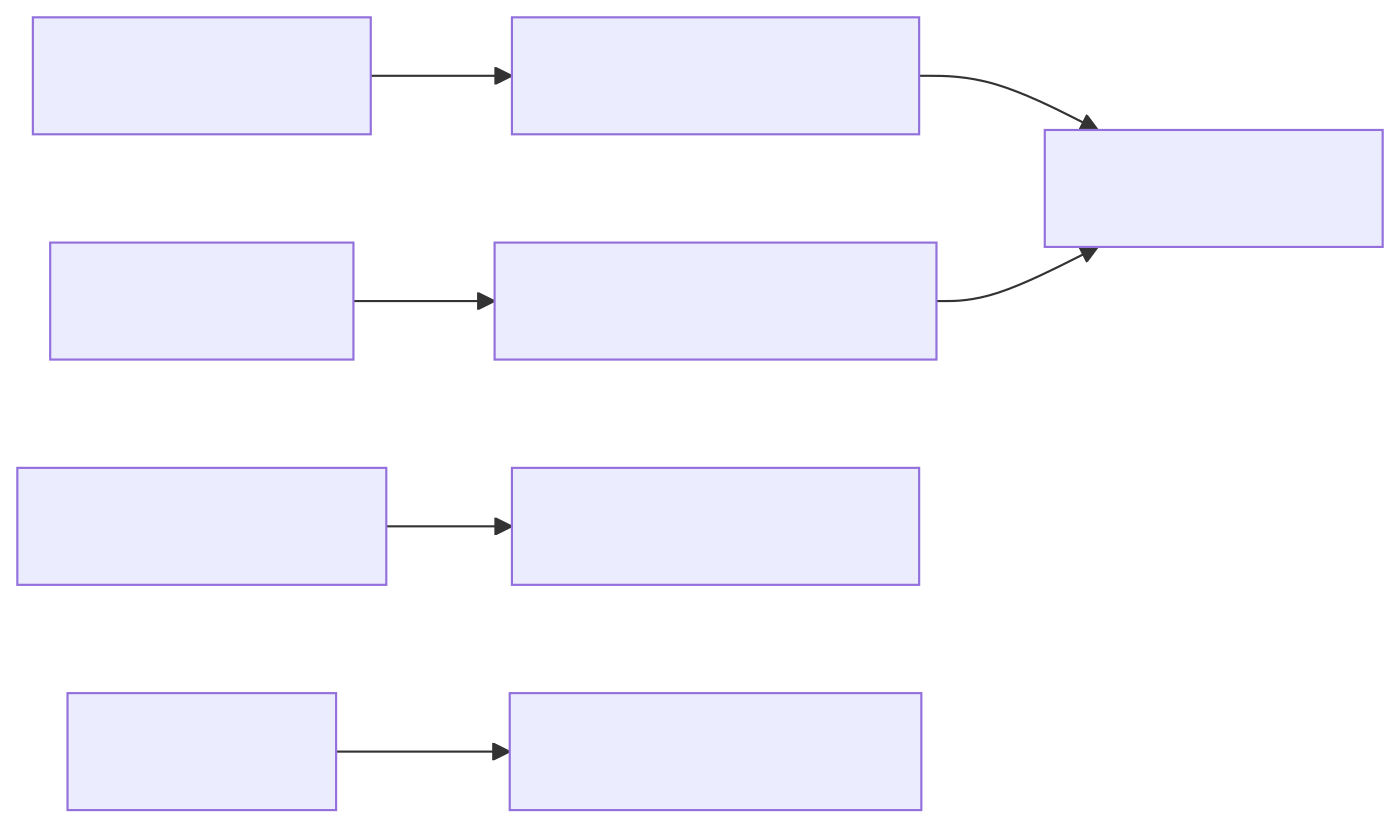
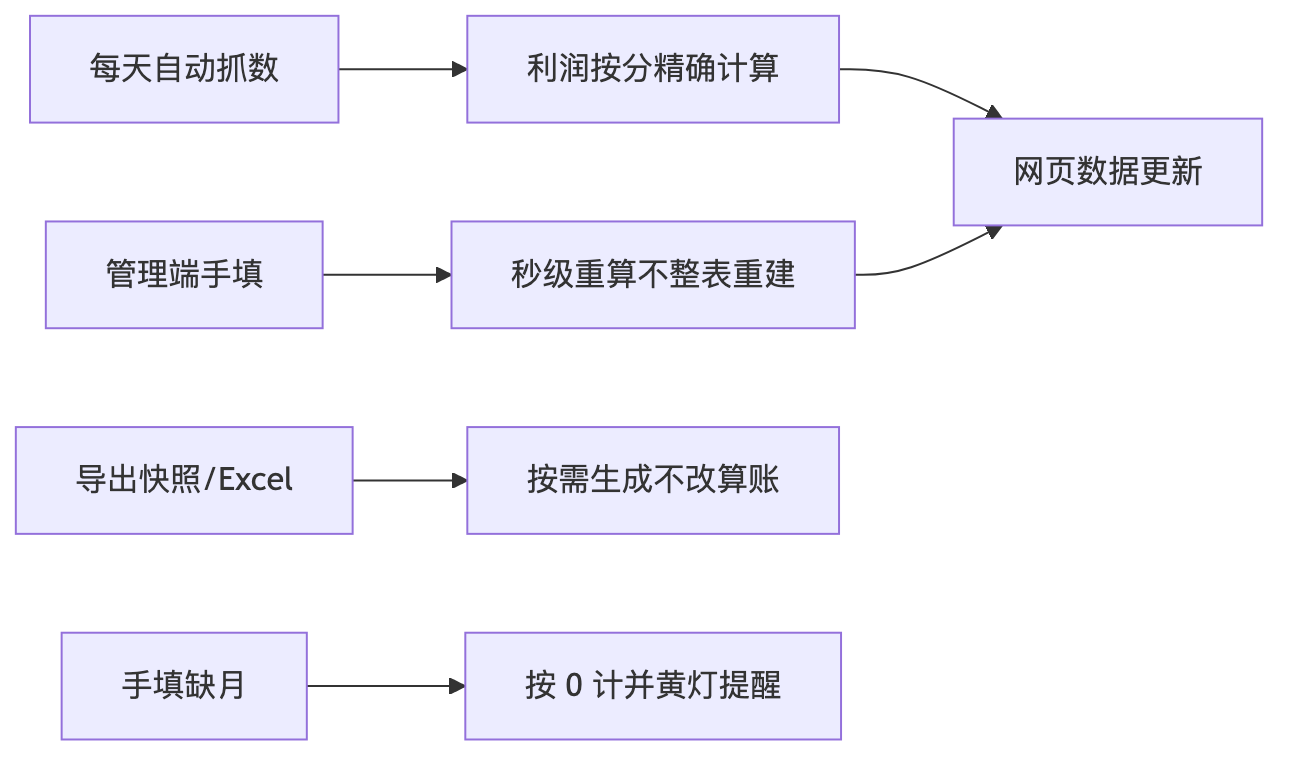
docs(3.7.7): fix blank architecture diagrams + full key-customers shot
Render mermaid mmd directly to PNG via Chromium so node labels
survive Gitee/GitHub; stop rsvg foreignObject dropouts.
Replace key-customers screenshot with full combat desk (pies,
pool list, action queue) from golden offline data.

diff --git a/README.md b/README.md
@@ -72,7 +72,9 @@
 | 五 | **收入与毛利结构** | 按客户 / 销售排名 |
 | 六 | **费用明细** | 热力 + 台账表 |
 
-![重点客户](docs/images/ui/05_key_customers.png)
+![重点客户完整作战台](docs/images/ui/05_key_customers.png)
+
+上图含：三摘要卡、客户数/金额双饼、S～E 图例、三经营池名单（对比）、右侧需跟进/临界晋级行动队列（golden 合成客户名）。
 
 ![看端利润区](docs/images/ui/03_viewer_profit_section.png)
 
